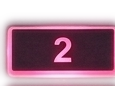
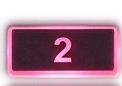
0.1.16: preset footswitch glow sizing, final touch-up (button 2 widened)
Third pass. 0.1.15 fixed the overlap bleed; button 2 alone still looked
slightly undersized on its right edge next to 1/3/4 when tested live.
Widened button 2 by 7px (115 -> 122), re-checked against the same
whole-row-composite technique to confirm it still doesn't reach button 3.
1/3/4 unchanged.

Final bounds: 1=299-439, 2=438-560, 3=563-683, 4=688-823.

Version bumped to 0.1.16.

diff --git a/Source/PluginEditor.cpp b/Source/PluginEditor.cpp
@@ -136,7 +136,7 @@ namespace
     // overlap between neighbours is actually visible before use.
     constexpr int kPresetGlowY = 200, kPresetGlowH = 86;
     constexpr int kPresetGlowX[4] = { 299, 438, 563, 688 };
-    constexpr int kPresetGlowW[4] = { 140, 115, 120, 135 };
+    constexpr int kPresetGlowW[4] = { 140, 122, 120, 135 }; // button 2 widened slightly (+7px) after the row-composite fix undershot it a touch
     juce::Rectangle<int> presetGlowBounds (int i) { return scaledNativeRect ({ kPresetGlowX[i], kPresetGlowY, kPresetGlowW[i], kPresetGlowH }); }
 
     const juce::Colour kKnobTickColour { 190, 120, 150 }; // matches the fader caps' own inlaid stripe tone - user's pick over the brighter branding pink

diff --git a/HANDOFF.md b/HANDOFF.md
@@ -9,6 +9,25 @@ This was an autonomous session per the brief in
 `~/Downloads/logic-demo-brief-for-claude-code.md` — no check-ins, decisions
 made and documented here for the user to review and correct.
 
+## 2026-08-21: 0.1.16 - preset footswitch glow sizing, final touch-up
+
+Third and (per the user: "1 гениально... 3 и 4 шедеврально") last pass on
+this. 0.1.15 fixed the overlap bleed; live in Logic, button 2 alone still
+looked a touch undersized on its right edge compared to 1/3/4. Widened
+just button 2 by 7px (122 vs 115), re-checked against the same
+whole-row-composited-at-once technique from 0.1.15 to confirm it still
+doesn't reach button 3's territory. 1/3/4 untouched.
+
+Final bounds: 1 = 299-439 (w140), 2 = 438-560 (w122), 3 = 563-683 (w120),
+4 = 688-823 (w135).
+
+Version bumped to 0.1.16. Pushed to `github.com/hitrows/emoboy`. Note:
+0.1.14 as a distinct version was never actually committed - its bounds
+change and the 0.1.15 fix on top of it landed in git as a single 0.1.15
+commit (worth knowing if `git log` is ever cross-referenced against these
+notes and 0.1.14 looks "missing" - it isn't a gap, just never separately
+committed).
+
 ## 2026-08-21: 0.1.15 - preset footswitch glow sizing, take two (right-edge bleed)
 
 0.1.14's fix wasn't quite it. Tested live in Logic, the user reported:
